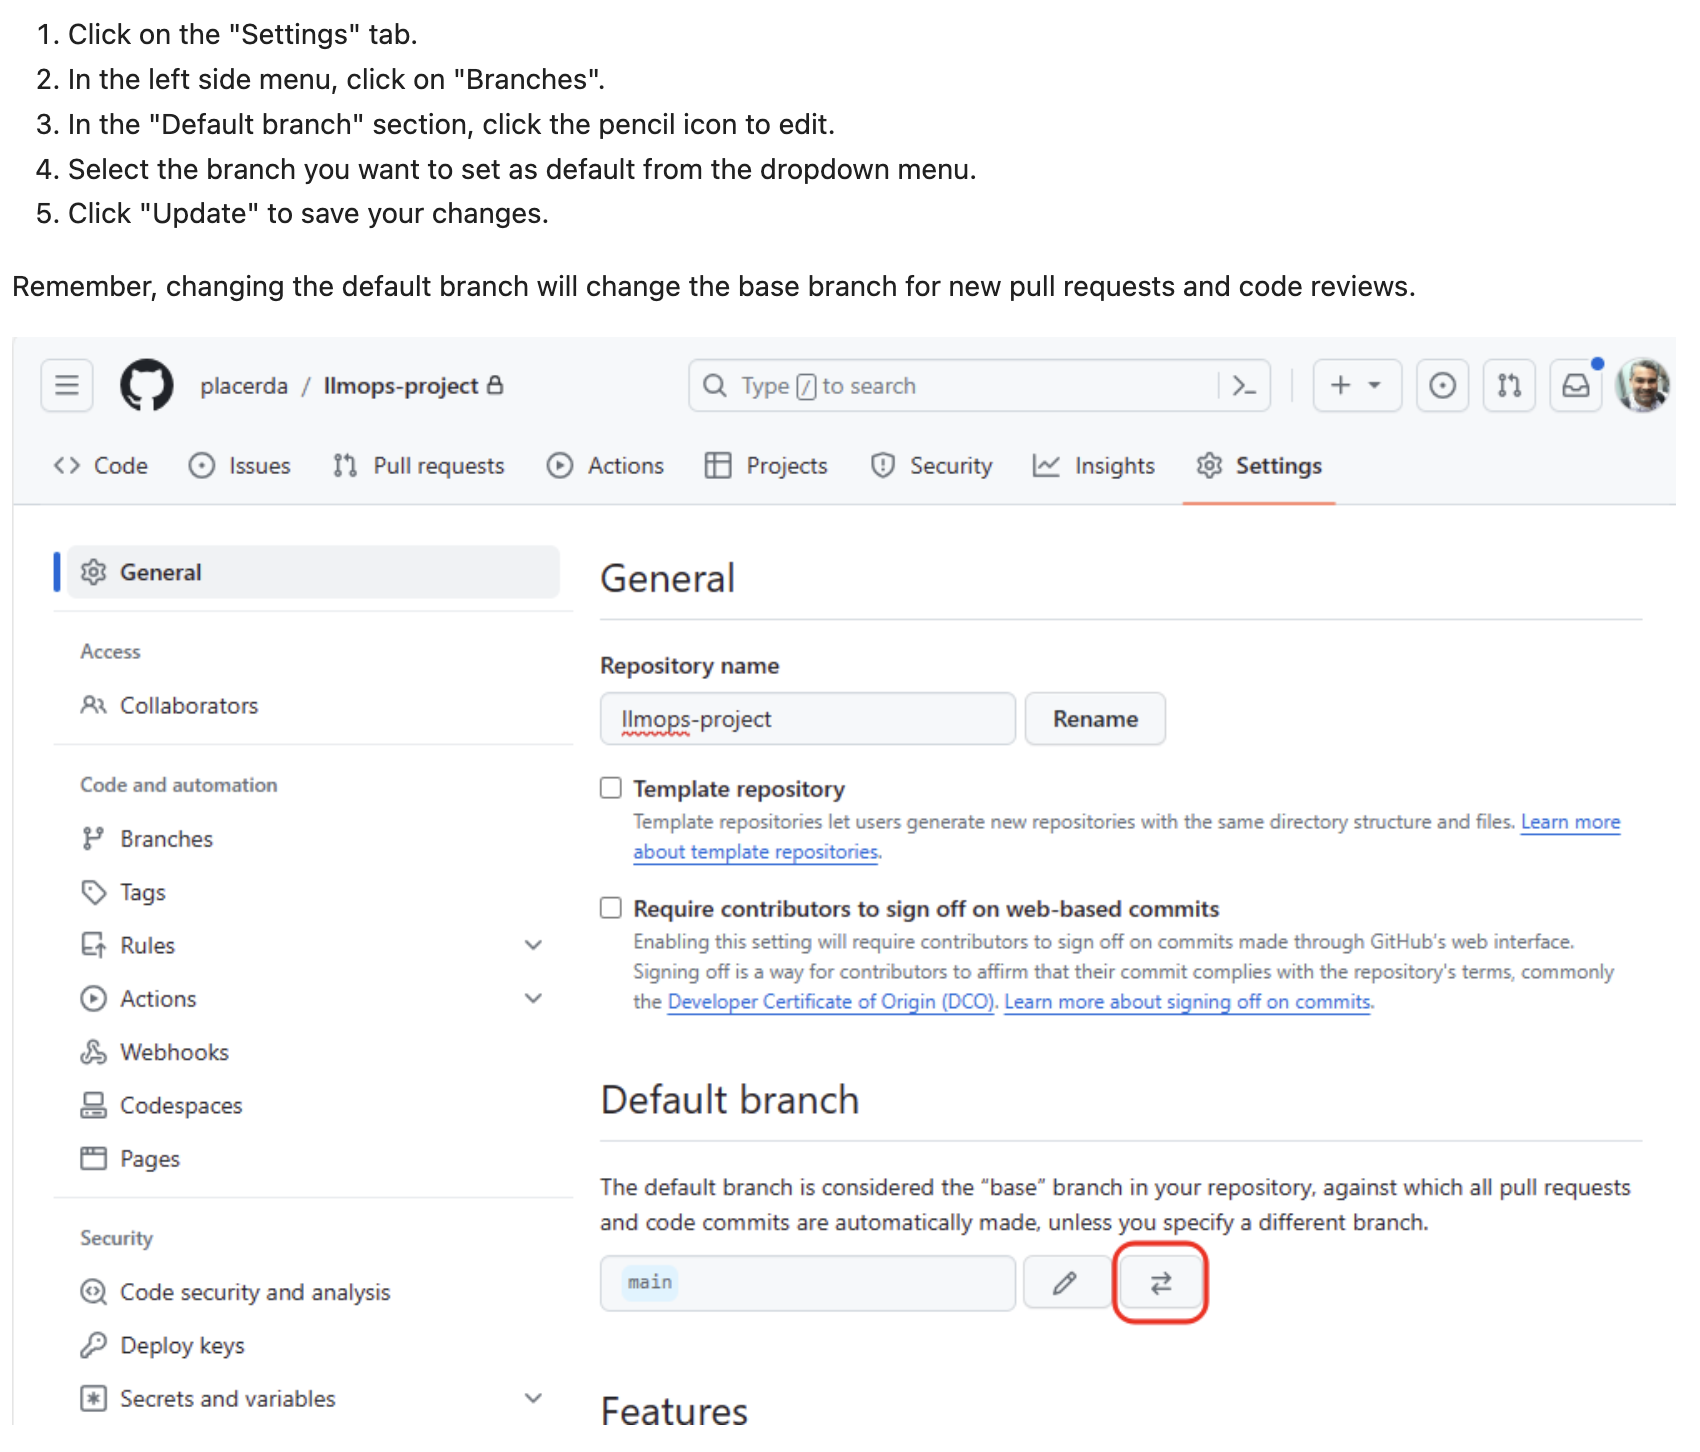
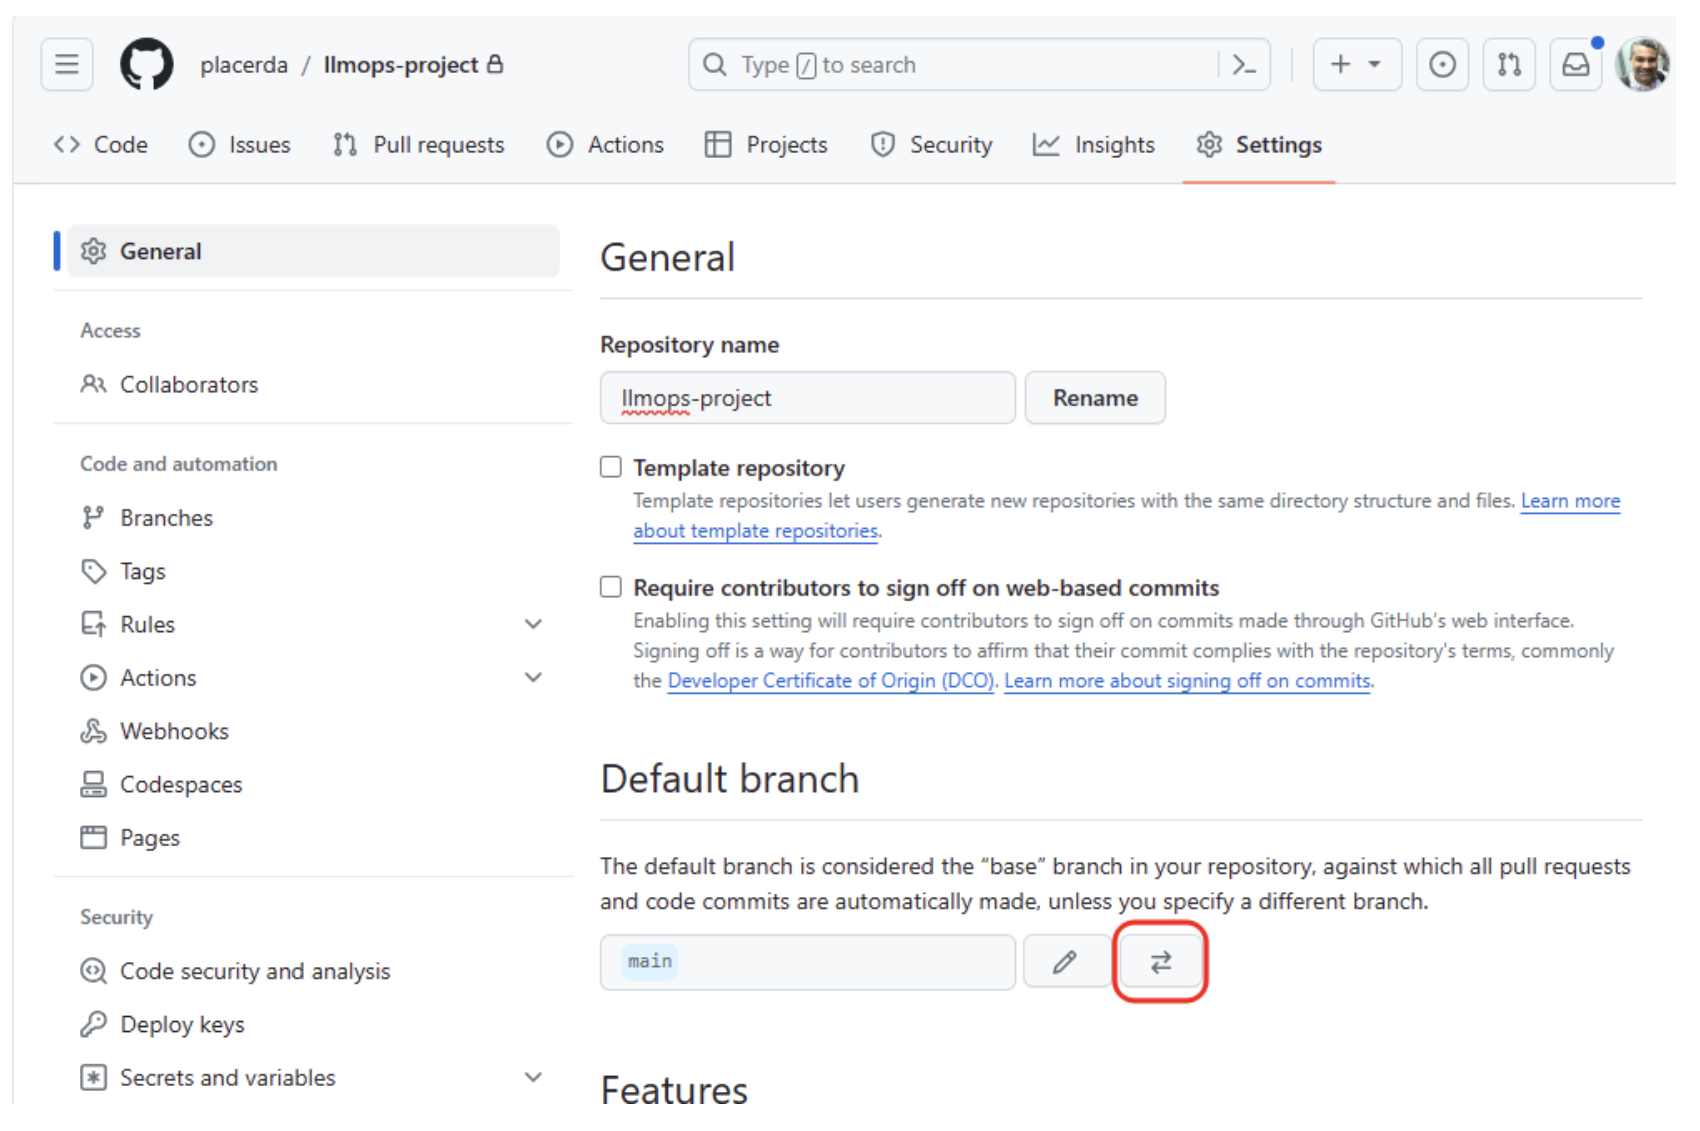
Additional lab updates and added alt tags to the images

diff --git a/docs/06_automating_everything/06_01.md b/docs/06_automating_everything/06_01.md
@@ -84,7 +84,7 @@ Please ensure that you have the following resources in order to proceed with the
 
 After executing the script, you will receive the following information regarding the service principal.
 
-![LLMOps Workshop](images/lab6grab1.png)
+![A JSON file is displayed that shows the clientID and clientSecret properties in addition to others.](images/lab6grab1.png)
 
 This is the information to be used for GitHub actions to authenticate in Azure.
 **Save it in a secure place**, as you will need it later for GitHub configuration.
@@ -93,11 +93,11 @@ This is the information to be used for GitHub actions to authenticate in Azure.
 
 1. Go to GitHub and create a new repository.
 
-    ![LLMOps Workshop](images/lab6grab2.png)
+    ![A GitHub dashboard is displayed with the New button highlighted for creating a new repository.](images/lab6grab2.png)
 
     Let's use **llmops-project** as the repo name for this workshop, if you chose a different repo name, you can replace **llmops-project** with the name you have chosen whenever you see it in the lab commands.
 
-    ![LLMOps Workshop](images/lab6grab3.png)
+    ![The new repository form is displayed with llmops-project shown as the repository name.](images/lab6grab3.png)
 
 2. Create a GitHub personal access token.
 
@@ -113,11 +113,11 @@ This is the information to be used for GitHub actions to authenticate in Azure.
 
     4. Choose the repo you just created in the Repository access section.
 
-        ![The Only select repositories radio button is selected and the new repo is selected in the dropdown list.](media/lab6grab4b.png)
+        ![The Only select repositories radio button is selected and the new repo is selected in the dropdown list.](images/lab6grab4b.png)
 
     5. In the Permissions section, add **Read and write** to the following items: **Administration**, **Contents**, and **Workflows** (Metadata is mandatory).
 
-        ![The selected permissions are displayed within the overview grid.](media/lab6grab4c.png)
+        ![The selected permissions are displayed within the overview grid.](images/lab6grab4c.png)
 
     6. Select **Generate token** and _copy the token_ to use in the next command.
 
@@ -172,17 +172,23 @@ This is the information to be used for GitHub actions to authenticate in Azure.
 
     To make development branch as default in the GitHub remote repo, go to your GitHub repository on the web and execute the following steps:
 
-    ![LLMOps Workshop](images/lab6grab5.png)
+    1. Select the **Settings** tab.
+    2. In the left sidebar, select **Branches**.
+    3. In the **Default branch** section, select the pencil icon to edit the default branch selection.
+    4. Select the branch you want to set as the default branch (development) from the dropdown list.
+    5. Select **Update** to save your changes.
+
+    ![The general settings for the repo are displayed with the default branch section highlighted.](images/lab6grab5.png)
 
 5. Set up authentication with Azure and Github.
 
     To start, go to the **Settings** tab of your GitHub project. Then, navigate to **Secrets and variables** followed by **Actions** and select **New repository secret**.
 
-    ![LLMOps Workshop](images/lab6grab6.png)
+    ![The new repository secret button is highlighted.](images/lab6grab6.png)
 
-    Now, create a repository secret on GitHub called 'AZURE_CREDENTIALS' and provide the Azure Service Principal details you saved in step 2.1 as its content.
+    Now, create a repository secret on GitHub called 'AZURE_CREDENTIALS' and provide the Azure Service Principal details you saved in an earlier step as its content.
 
-    ![LLMOps Workshop](images/lab6grab7.png)
+    ![The new secret form is displayed.](images/lab6grab7.png)
 
 ##### 4) Create Azure OpenAI model deployment
 
@@ -192,13 +198,20 @@ This is the information to be used for GitHub actions to authenticate in Azure.
 
     Please use Azure OpenAI Studio at https://ai.azure.com/ to create a deployment named gpt-35-turbo in the AI Project you set up during step 1 of this hands-on exercise.
 
-    To do this, simply replicate what is shown in the next three images:
+    To do this, complete the following steps:
 
-    ![LLMOps Workshop](images/lab6grab8.png)
+    1. Go to the **Build** tab and select **Deployments** in the left-hand menu.
+    2. Select the **+ Create** button under Deployments.
 
-    ![LLMOps Workshop](images/lab6grab9.png)
+        ![The Create button is highlighted on the Deployments page.](images/lab6grab8.png)
 
-    ![LLMOps Workshop](images/lab6grab10.png)
+    3. Select the model you wish to deploy (gpt-35-turbo or gpt-4, depending on what is available in your region) and select **Confirm**.
+
+        ![The model selection page is displayed with the gpt-35-turbo model selected.](images/lab6grab9.png)
+
+    4. Select the **Deploy** button to deploy the selected model.
+
+          ![The Deploy button is highlighted.](images/lab6grab10.png)
 
 2. Update Azure OpenAI connection name.
 
@@ -234,37 +247,35 @@ The **LLMOps with Prompt Flow** template repo include three example use cases, w
 In this step, you will configure the name_entity_recognition flow's LLMOps and deployment parameters. After that we will be able
 to create a pull request for this example.
 
-1. Update flow's llmops parameters.
+1. Update flow's LLMOps parameters.
 
     The file **llmops_config.json** contains information related to the resources and directories used in each environment.
 
-    Navigate to the **named_entity_recognition** folder and open the **llmops_config.json** file, note that the parameters KEYVAULT_NAME, RESOURCE_GROUP_NAME, and WORKSPACE_NAME will be blank.
+    1. Navigate to the **named_entity_recognition** folder and open the **llmops_config.json** file, note that the parameters KEYVAULT_NAME, RESOURCE_GROUP_NAME, and WORKSPACE_NAME will be blank.
 
-    Update them respectively with the name of the key vault, resource group, and AI project name created in step 1 of this lab.
+    2. Update the files respectively with the name of the key vault, resource group, and AI project name created in step 1 of this lab.
 
     For simplicity, we will use the same resources for all environments.
 
     Example configuration:
 
-    ![LLMOps Workshop](images/lab6grab11.png)
+    ![An example of the llmops_config.json file is displayed.](images/lab6grab11.png)
 
 2. Update flow's deployment parameters.
 
     The file **deployment_config.json** contains information related to the solution deployment.
 
-    Navigate to the **named_entity_recognition** folder and open the **configs/deployment_config.json** file.
+    1. Navigate to the **named_entity_recognition** folder and open the **configs/deployment_config.json** file.
 
-    Update the ENDPOINT_NAME and CURRENT_DEPLOYMENT_NAME parameters.
+    2. Update the ENDPOINT_NAME and CURRENT_DEPLOYMENT_NAME parameters.
 
-    **deployment_config.json**
-
-    Modify the configuration values in the deployment_config.json file in the azure_managed_endpoint section for the **dev** environment.
+    3. Modify the configuration values in the **deployment_config.json** file in the azure_managed_endpoint section for the **dev** environment.
 
     During this lab we'll only use the dev environment, so no need to worry about the other environments.
 
     Example configuration:
 
-    ![LLMOps Workshop](images/lab6grab11.png)
+    ![An example of the deployment_config.json file is displayed.](images/lab6grab12.png)
 
 3. Push updates to remote repo.
 
